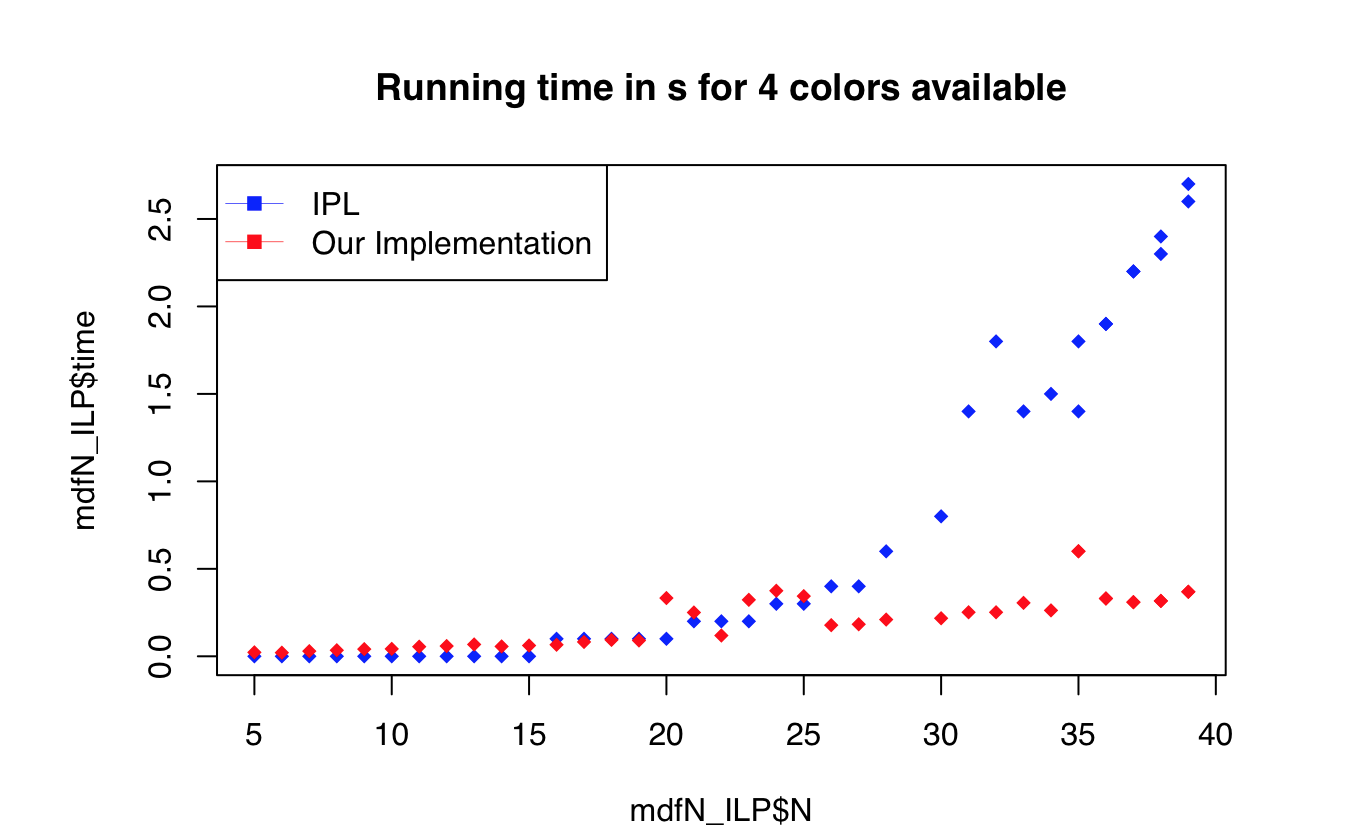
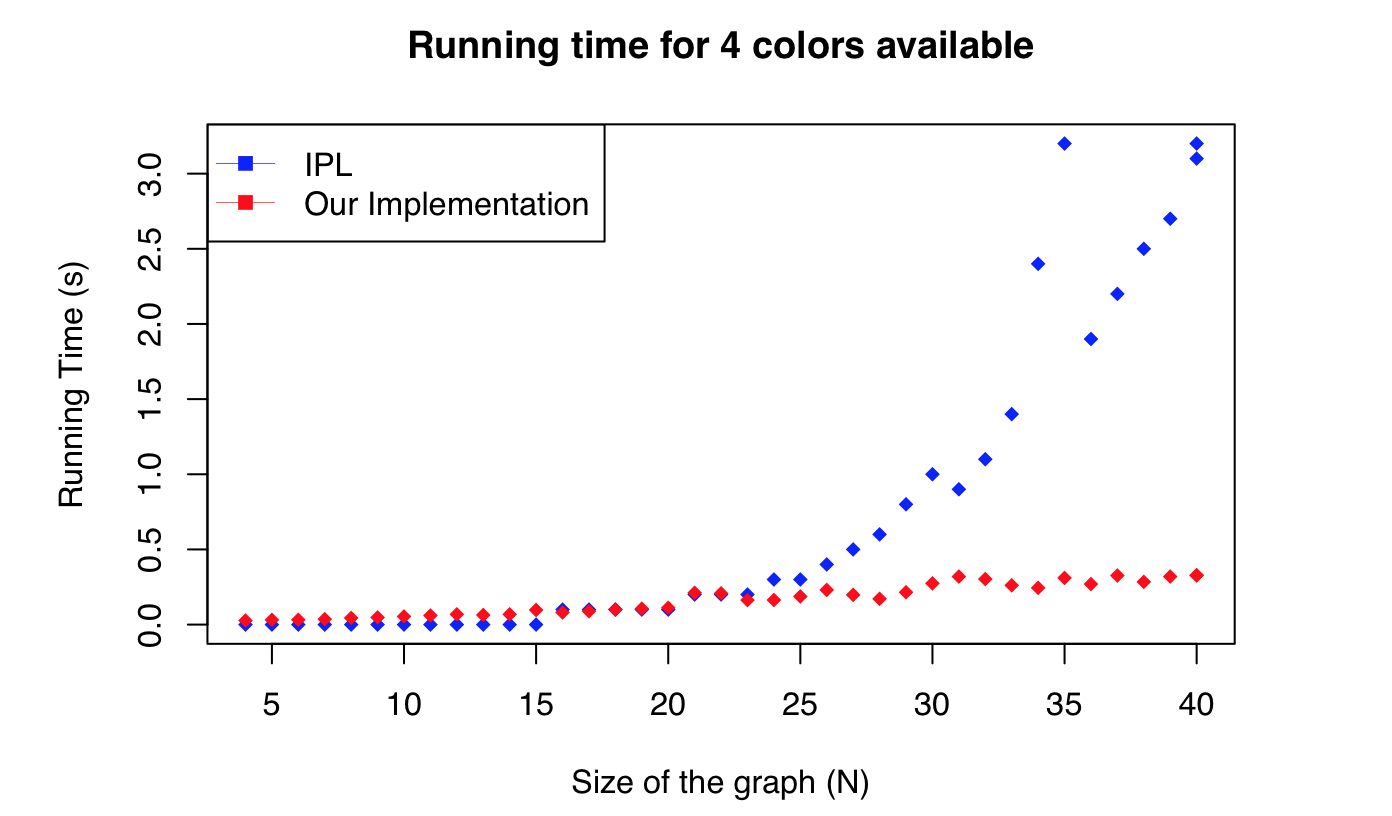
update report

diff --git a/final-report-draft/final-report-draft.tex b/final-report-draft/final-report-draft.tex
@@ -291,7 +291,7 @@ Our method is analytical since the $1$-band buffering cellular topology can be e
 The algorithms are implemented in Java in order to test their correctness. The graphs are displayed in a JApplet in order to visualize the coloring. The implementation is based on the JGraphT \cite{JGraphT} libraries which provides the graph data structures.
 
 \subsection{Generation of Cellular Graph}
-The cellular graphs are generated from a grid graph shown in Fig. \ref{cellgraphgeneration}.
+The cellular graphs are generated from a grid graph as shown in Fig. \ref{cellgraphgeneration}.
 
 \begin{figure}[!h]
 \centering
@@ -310,7 +310,7 @@ The first observation that we could make is that only $3$ colors were used to co
 \end{figure}
 
 We then studied the running time of the algorithm compared to an integer linear program from \cite{7248845} with cellular graphs of variable sizes.
-The running time of the integer linear program solved by GLPK \cite{GLPK} is given in seconds while the running time of our implementation are in nanoseconds.
+The running time of the integer linear program solved by GLPK \cite{GLPK} is given in seconds while the running time of our implementation are in nanoseconds. Given the precision of the running time of the GLPK\cite{GLPK} a logarithmic representation is impossible (0s values).
 We can notice the exponential time required for the integer linear program compared to our polynomial one on Fig. \ref{4colors}
 
 \begin{figure}[!h]
@@ -321,20 +321,24 @@ We can notice the exponential time required for the integer linear program compa
 \end{figure}
 
 
-\subsection{Cellular Graph - random numbers of colors available (higher than 4), each node has 4 possible colors}
+\subsection{Cellular Graph - variable numbers of colors available (higher than 4), each node has 4 possible colors}
 
-The fact that the running time depends on the number of colors available for a fixed size of cellular graph is though to test. However, the running time of the integer linear program and its need in memory can be very high.
-Cellular graphs with very few nodes have been tested because the physical requirements (CPU, memory) for higher numbers of nodes were not available.
+The fact that the running time depends on the number of colors available for a fixed size of cellular graph is though to test because of the machine capacity. Indeed, the running time of the integer linear program and its need in memory can be very high.
+We have compared the running time depending on the number of colors available for a cellular graph of size N=40.
+The 
 Fig. \ref{20size} shows some value where the integer linear program gave a solution in less than $2$ minutes. We can see that when the integer linear program gives a solution fast then so does our algorithm.
 No further conclusions can be made until we generate more data especially with larger cellular graphs.
 
 \begin{figure}[!h]
 \centering
-\includegraphics[scale=0.4]{20sizeRunTime.png}
-\caption{R studio result for a fixed size of $N=20$ (cf.Fig.\ref{cellgraphgeneration})}
+\includegraphics[scale=0.4]{40SizeRunTime.png}
+\caption{R studio result for a fixed size of $N=40$ (cf.Fig.\ref{cellgraphgeneration})}
 \label{20size}
 \end{figure}
 
+\subsection{Cellular Graph - Generated Coloration}
+By interest, we decided to compare the actual coloration of the same graph by the two methods. Obvisously most of time both coloration were different. However, for in the first case (4 colors available and each are available for each node) the coloration was exactly the same. A further work could be to prove that there is one unique solution in this case for cellular graph 4-coloration.
+The scripts generated can be found in the git repository.
 
 \section{Discussion}
 
